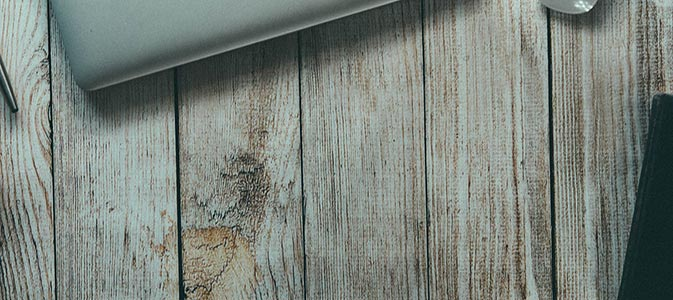
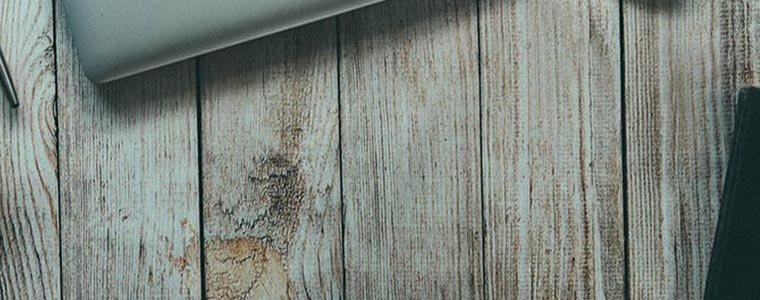
added quiz project

diff --git a/src/components/Home/Home.js b/src/components/Home/Home.js
@@ -80,7 +80,7 @@ class Home extends React.Component {
               title='Whtspc Digital'
               themes={['WordPress', 'Web Design', 'ReactJS']}
               description="Started as freelance web design, now a small digital creative agency. Visit the site to see our latest work."
-              image={require('../../assets/images/project02.jpg')}
+              image={require('../../assets/images/project01.jpg')}
               imageAlt='Whtspc Digital - We Champion the Underdogs.'
               link='//whtspcdigital.com.au/' />
 
@@ -95,19 +95,27 @@ class Home extends React.Component {
 
             <ProjectRow
               index={3}
+              title='Digital Quiz'
+              themes={['ReactJS', 'AWS']}
+              description="An online quiz powered by a cloud REST API. Built to be scalable and easily customised."
+              image={require('../../assets/images/project05.jpg')}
+              imageAlt='Showcasing creative ideas.' />
+
+            <ProjectRow
+              index={4}
               title='Portfolio'
               themes={['ReactJS', 'Web Design']}
               description="The page you're looking at right now. Built using ReactJS, just for a bit of fun. Feel free to drop any feedback."
               image={require('../../assets/images/project03.jpg')}
               imageAlt='Showcasing creative ideas.' />
 
-            <ProjectRow
-              index={4}
+            {/*<ProjectRow
+              index={5}
               title='Startups'
               themes={['AWS', 'ReactJS', 'Xamarin']}
               description="Parallel entrepreneurial endeavors ranging from social networks to native apps. Ask me which game-changing idea I'm working on today..."
               image={require('../../assets/images/project01.jpg')}
-              imageAlt='Building better things. To make things better.' />
+              imageAlt='Building better things. To make things better.' />*/}
           </Section>
         </Observer>
 
